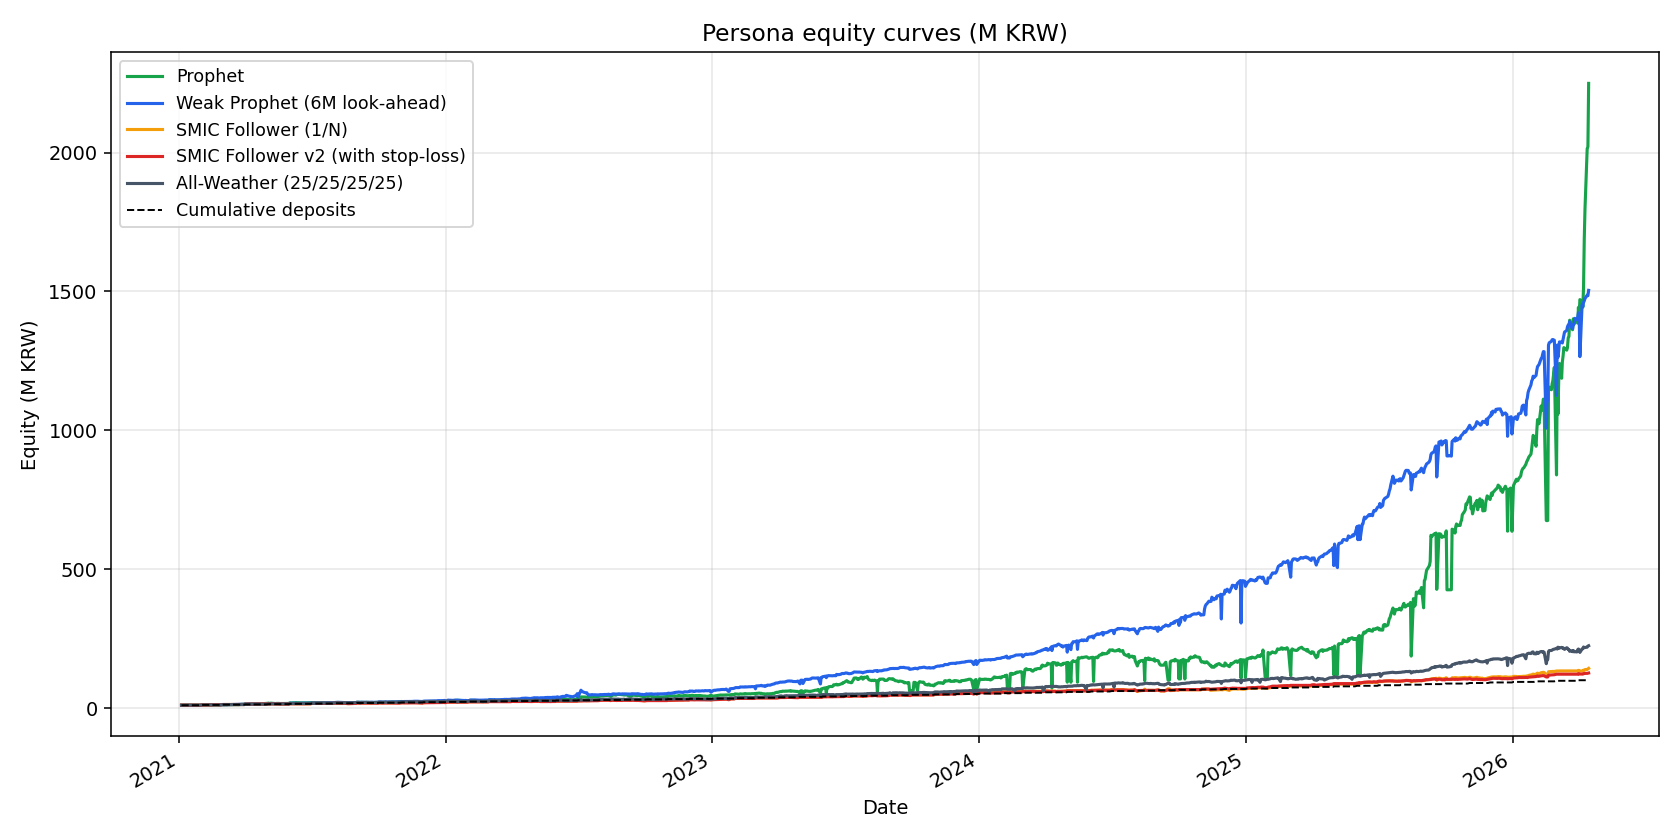
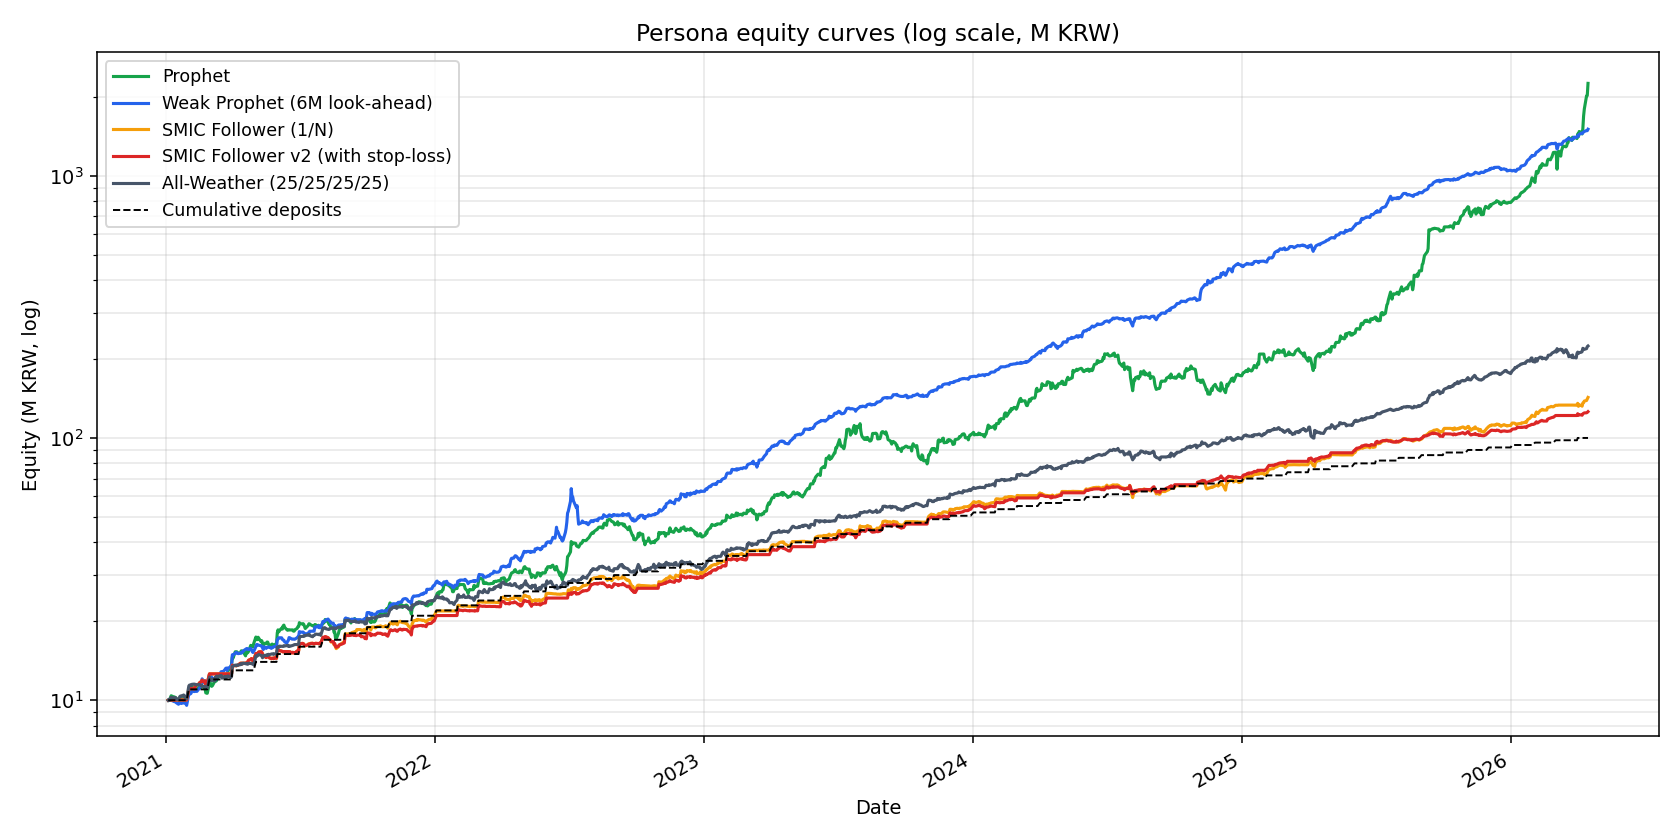
Fix MTM forward-fill bug + log-Y equity charts
Bug: record_equity_point fell back to lot.avg_cost_krw when a held
symbol's close was missing for a given trading day (holidays, halts,
intraday data gaps). For a position with significant unrealised gains
this collapsed today's mark to original cost, producing fake −30%/+50%
single-day spikes that inflated max-drawdown across every persona.

Real-world impact, before vs after this fix on the 2021-01-04 →
2026-04-15 run:

  All-Weather   MDD 21.6% → 9.6%   (most affected — 4 ETFs, frequent
                                    KRX holidays don't align with US)
  Prophet       MDD 55.6% → 30.3%  (concentrated, biggest gainer)
  Weak Prophet  MDD 33.3% → 27.2%
  SMIC v1       MDD 11.5% → 11.4%  (already diversified, less affected)
  SMIC v2       MDD  9.6% →  9.0%

Fix: record_equity_point now accepts the PriceBoard and resolves
held-symbol prices in three steps — today's close → board.asof(day,
sym) (forward-fill last observed close) → avg_cost as final fallback.
Each persona threads its own board through to the helper (the All-
Weather persona uses its benchmark_board, the others the SMIC board).

Also:
  - equity_curves.png renders on log-scale Y so the 5-year 10x→1000x
    span is legible and CAGR appears as line slope.
  - README result table updated with the corrected MDDs and a note
    explaining the forward-fill MTM contract.
  - README CI section corrected: budget-check.yml is the GitHub
    Actions billing watchdog, not an Optuna budget guard.
[…]

diff --git a/src/snusmic_pipeline/sim/personas/base.py b/src/snusmic_pipeline/sim/personas/base.py
@@ -16,6 +16,7 @@ import numpy as np
 
 from ..brokerage import Account
 from ..contracts import EquityPoint, PersonaSummary, Trade
+from ..market import PriceBoard
 from ..savings import CashFlowEvent
 
 
@@ -42,6 +43,7 @@ def record_equity_point(
     day: date,
     prices_today: dict[str, float],
     contributed_today: float,
+    board: PriceBoard | None = None,
 ) -> EquityPoint:
     """Snapshot the account RIGHT NOW.
 
@@ -50,15 +52,30 @@ def record_equity_point(
     state, so calling it after the loop produces a single bogus end-state
     repeated across all dates (this was the original bug).
 
-    ``prices_today`` should be the close map for ``day``; symbols held
-    without a close today fall back to weighted-average cost so a halted
-    name doesn't appear as a synthetic loss.
+    Mark-to-market resolution order for each held symbol:
+
+    1. ``prices_today[symbol]`` — today's close.
+    2. ``board.asof(day, symbol)`` — last observed close on or before today
+       (forward-fill). This is the critical step: when a symbol simply has
+       no quote published today, the holding stays marked at yesterday's
+       price rather than collapsing back to weighted-average cost.
+    3. ``lot.avg_cost_krw`` — final fallback for a holding that was bought
+       and then never had any subsequent quote (extremely rare).
+
+    Without step 2 the equity curve develops fake one-day −30% spikes on
+    holiday/halt days for symbols whose actual price has run up well above
+    cost.
     """
-    holdings_value = sum(
-        lot.qty * prices_today.get(sym, lot.avg_cost_krw)
-        for sym, lot in account.holdings.items()
-        if lot.qty > 0
-    )
+    holdings_value = 0.0
+    for sym, lot in account.holdings.items():
+        if lot.qty <= 0:
+            continue
+        mid = prices_today.get(sym)
+        if (mid is None or mid <= 0) and board is not None:
+            mid = board.asof(day, sym)
+        if mid is None or mid <= 0:
+            mid = lot.avg_cost_krw
+        holdings_value += lot.qty * mid
     equity = account.cash_krw + holdings_value
     return EquityPoint(
         persona=persona,

diff --git a/src/snusmic_pipeline/sim/visualize.py b/src/snusmic_pipeline/sim/visualize.py
@@ -66,10 +66,11 @@ def plot_equity_curves(result: SimulationResult, out_path: Path) -> Path:
         cy = [c[1] / 1e6 for c in contributions]
         ax.plot(cx, cy, label="Cumulative deposits", color="black", linestyle="--", linewidth=1.0)
 
-    ax.set_title("Persona equity curves (M KRW)")
+    ax.set_yscale("log")
+    ax.set_title("Persona equity curves (log scale, M KRW)")
     ax.set_xlabel("Date")
-    ax.set_ylabel("Equity (M KRW)")
-    ax.grid(True, alpha=0.3)
+    ax.set_ylabel("Equity (M KRW, log)")
+    ax.grid(True, which="both", alpha=0.3)
     ax.legend(loc="upper left", fontsize=9)
     fig.autofmt_xdate()
     fig.tight_layout()

diff --git a/src/snusmic_pipeline/sim/personas/all_weather.py b/src/snusmic_pipeline/sim/personas/all_weather.py
@@ -73,7 +73,14 @@ def simulate_all_weather(
                             prices[sym] = mid
                 account.rebalance_to_weights(day, tradable, prices)
         equity_points.append(
-            record_equity_point(account, persona, day, daily_closes.get(day, {}), contributions[day])
+            record_equity_point(
+                account,
+                persona,
+                day,
+                daily_closes.get(day, {}),
+                contributions[day],
+                board=benchmark_board,
+            )
         )
 
     summary = build_summary(persona, label, account, equity_points, cashflows, plan.initial_capital_krw)

diff --git a/src/snusmic_pipeline/sim/personas/smic_follower.py b/src/snusmic_pipeline/sim/personas/smic_follower.py
@@ -107,7 +107,7 @@ def _simulate_follower(
         if deposit_today > 0 or day in rebalance_days:
             _rebalance_to_one_n(account, day, board, daily_closes[day], state)
         equity_points.append(
-            record_equity_point(account, persona, day, daily_closes[day], contributions[day])
+            record_equity_point(account, persona, day, daily_closes[day], contributions[day], board=board)
         )
     summary = build_summary(persona, label, account, equity_points, cashflows, plan.initial_capital_krw)
     return PersonaRunOutput(account=account, equity_points=equity_points, summary=summary)

diff --git a/src/snusmic_pipeline/sim/personas/weak_prophet.py b/src/snusmic_pipeline/sim/personas/weak_prophet.py
@@ -69,7 +69,7 @@ def simulate_weak_prophet(
                         tradable = {sym: w / s for sym, w in tradable.items()}
                     account.rebalance_to_weights(day, tradable, prices)
         equity_points.append(
-            record_equity_point(account, persona, day, daily_closes[day], contributions[day])
+            record_equity_point(account, persona, day, daily_closes[day], contributions[day], board=board)
         )
     summary = build_summary(
         persona, config.label, account, equity_points, cashflows, plan.initial_capital_krw

diff --git a/src/snusmic_pipeline/sim/personas/prophet.py b/src/snusmic_pipeline/sim/personas/prophet.py
@@ -64,7 +64,7 @@ def simulate_prophet(
             if mid is not None:
                 account.sell_all(day, sym, mid, "target_hit")
         equity_points.append(
-            record_equity_point(account, persona, day, daily_closes[day], contributions[day])
+            record_equity_point(account, persona, day, daily_closes[day], contributions[day], board=board)
         )
 
     summary = build_summary(
